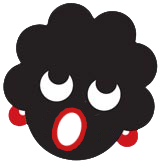
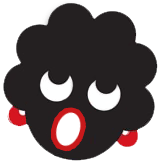
less pixelated jpgs

diff --git a/README.md b/README.md
@@ -2,7 +2,7 @@
 
 DMTN
 ====
-Simple but useful desktop widget.
+Simple but useful java desktop widget.
 
 Download: http://www.neekeri.com/up/nigloader.rar
 
